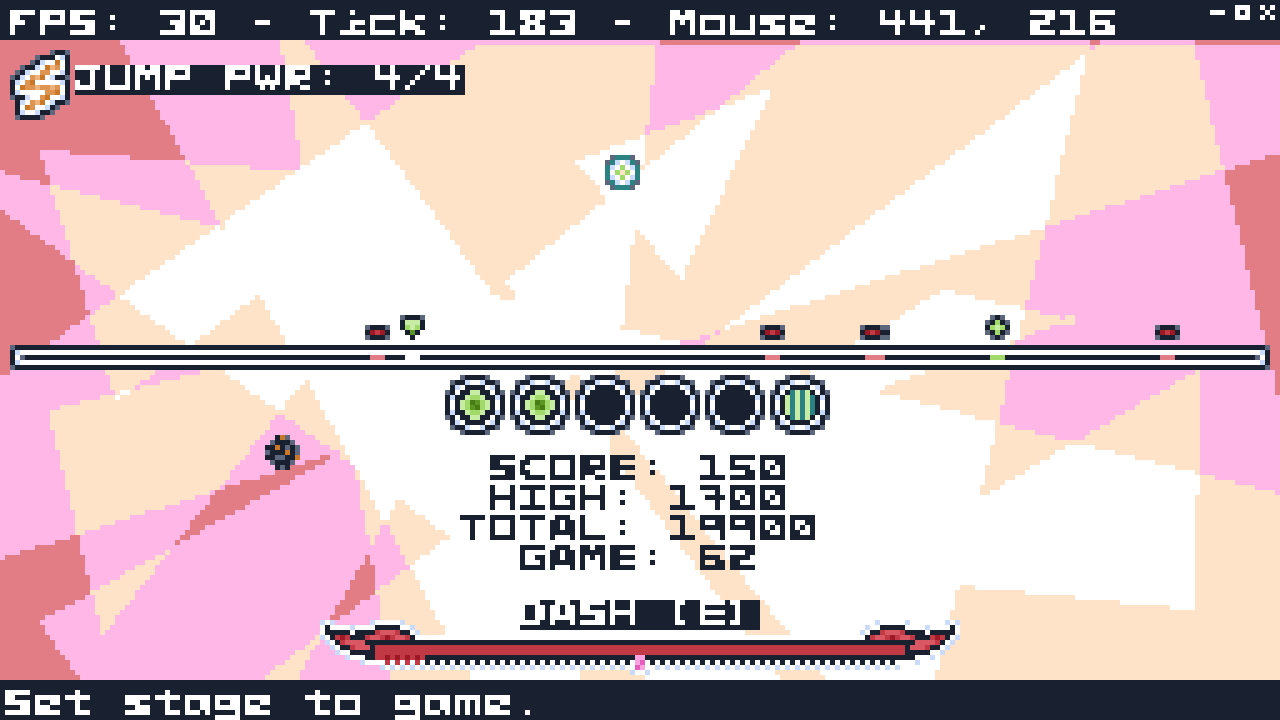
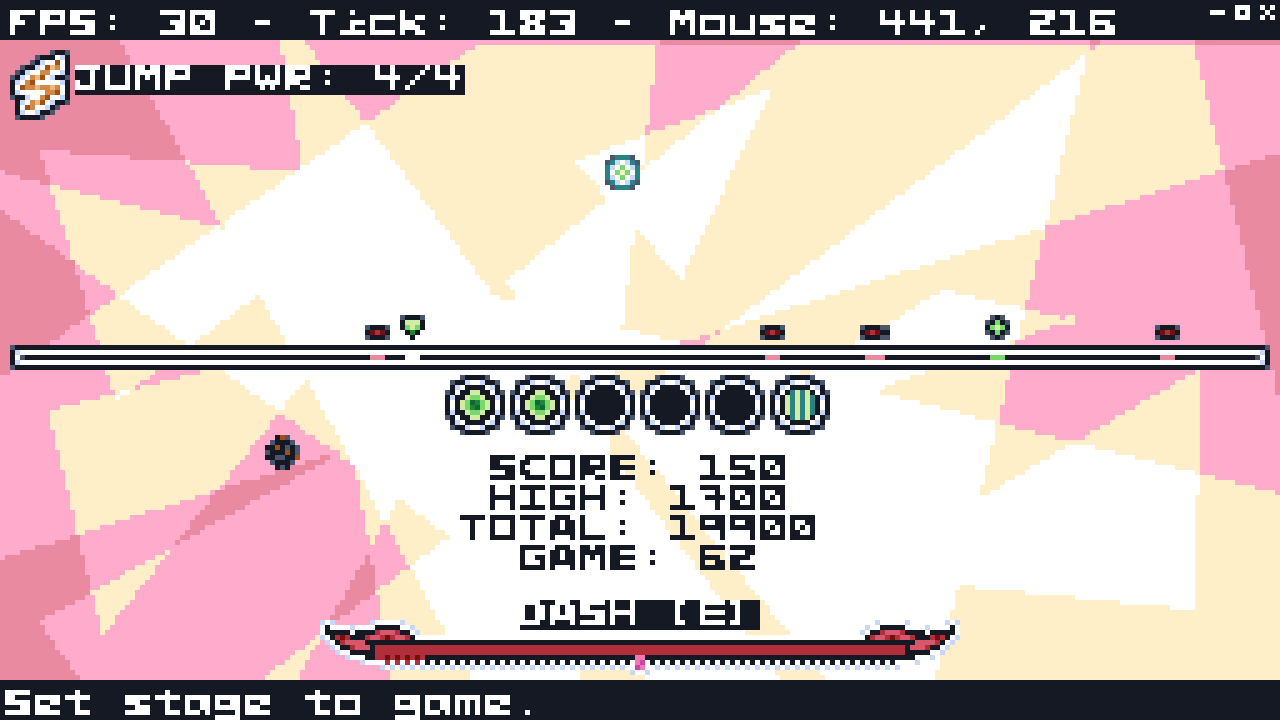
Update website for v1.1

diff --git a/how-to-play.html b/how-to-play.html
@@ -23,13 +23,14 @@
 	  </p>
 	  <div id="new">
 		<p><strong>NEWEST NEW THING:</strong>
-		  This thing is now unnecessary; Lifeline.PYR now has an updates page!
-		  <a href="https://jasperredis.net/updates.html#lifelinepyr">See it here!</a></p>
+		  <a href="https://jasperredis.net/updates.html/lifelinepyr-2026-08-22.html">
+			(2026-08-22) v1.1 Released!
+		</a></p>
 	  </div>
 	</header>
 	
 	<main>
-	  <button onclick="toggleFont()" class="look-btn" id="font-btn">Change font (for easier reading)</button>
+	  <button onclick="toggleFont()" class="look-btn" id="font-btn">Classic font</button>
 	  <div class="dropdown">
 		<button class="look-btn">Change theme</button>
 		<div class="dropdown-content">
@@ -47,13 +48,6 @@
 		  <button onclick="setTheme('original')">Original</button>
 		</div>
 	  </div>
-
-	  <p>
-		Note that this is not word-for-word the exact in-game how to play screen,
-		but it is an arguably better how to play screen.<br>
-		This will soon be the new how to play screen, as v1.1 replaces the how to play screen
-		with a link to this website.
-	  </p>
 
 	  <h1>Table of Contents</h1>
 	  <ul>
@@ -89,7 +83,8 @@
 		This is your life. It starts at, and has a maximum of, 5. Each green orb represents a health point.<br>
 		In gameplay, you may, and should, notice that you are constantly losing these orbs.<br>
 		On the far right of your health bar is the time orb;
-		it shows how long you have until your next health point decreases. This interval is <i>2 seconds</i>.<br><br>
+		it shows how long you have until your next health point decreases. This interval is <i>2 seconds</i>
+		(1 second in Intense difficulty).<br><br>
 		<b>Note:</b> You can pause by pressing <code>[ESCAPE]</code>.
 	  </p>
 	  <img src="assets/htp-enemy.png">
@@ -156,6 +151,10 @@
 		<li><b>max_life</b> restores your health to the maximum of <i>5</i>.</li>
 		<li><b>max_jump</b> instantly charges your jump charge to maximum capacity (4/4).</li>
 		<li><b>clear_enemies</b> gets rid of all <i>current</i> enemies (it does not stop more from spawning).</li>
+		<li><b>Scorers</b> give you points when you touch them. Except for -50_pts, which takes away points
+		  when you touch it, and please do so at least once because I worked really hard on the sound effect >.<<br>
+		  Note: Scorers only exist in v1.1.
+		</li>
 	  </ul>
 	  <img src="assets/htp-laser-warn.png">
 	  <p>

diff --git a/styles.css b/styles.css
@@ -4,45 +4,45 @@
 }
 
 :root {
-	font-family: PYR5x5;
-	--font-btn-font: sans-serif;
-	--dark: #192130;
-	--header-text: #192130;
-	--grey: #5c677d;
+	font-family: sans-serif;
+	--font-btn-font: PYR5x5;
+	--dark: #141923;
+	--header-text: #141923;
+	--grey: #4a566e;
 	--light: #ffffff;
-	--red-1: #9f1825;
-	--red-2: #d95763;
-	--green-1: #487d15;
-	--green-2: #c7eca4;
+	--red-1: #750f0f;
+	--red-2: #d9576c;
+	--green-1: #0f673d;
+	--green-2: #d3eca4;
 	--bg-img: url("./assets/background.png");
 }
-:root.easy-font { font-family: sans-serif; --font-btn-font: PYR5x5; }
+:root.cool-font { font-family: PYR5x5; --font-btn-font: sans-serif; }
 :root.light {
-	--dark: #ffffff; --light: #192130;
-	--red-2: #9f1825; --red-1: #d95763;
+	--dark: #ffffff; --light: #141923;
+	--red-2: #750f0f; --red-1: #d9576c;
 }
 :root.sand {
-	--dark: #dd9551; --light: #ffe3c9;
-	--red-2: #9f1825; --red-1: #d95763;
+	--dark: #d18947; --light: #ffefc9;
+	--red-2: #750f0f; --red-1: #d9576c;
 	--bg-img: url("./assets/background-sand.png");
 }
 :root.ocean {
-	--dark: #2a8282; --light: #ffe3c9;
-	--red-2: #9f1825; --red-1: #d95763;
+	--dark: #2b8282; --light: #ffefc9;
+	--red-2: #750f0f; --red-1: #d9576c;
 	--bg-img: url("./assets/background-thunder.png");
 }
 :root.watermelon {
-	--dark: #e27d86; --light: #c7eca4;
-	--red-2: #9f1825; --red-1: #d95763;
+	--dark: #e27d86; --light: #d3eca4;
+	--red-2: #750f0f; --red-1: #d9576c;
 	--bg-img: url("./assets/background-alt.png");
 }
 :root.demo {
-	--dark: #9f1825; --light: #ffffff;
+	--dark: #750f0f; --light: #ffffff;
 	--bg-img: url("./assets/background-red.png");
 }
 :root.original {
-	--dark: #ca7728; --light: #192130;
-	--red-2: #9f1825; --red-1: #d95763;
+	--dark: #ca7728; --light: #141923;
+	--red-2: #750f0f; --red-1: #d9576c;
 	--bg-img: url("./assets/background-jrises.png");
 }
 

diff --git a/constants-override.html b/constants-override.html
@@ -23,13 +23,14 @@
 	  </p>
 	  <div id="new">
 		<p><strong>NEWEST NEW THING:</strong>
-		  This thing is now unnecessary; Lifeline.PYR now has an updates page!
-		  <a href="https://jasperredis.net/updates.html#lifelinepyr">See it here!</a></p>
+		  <a href="https://jasperredis.net/updates.html/lifelinepyr-2026-08-22.html">
+			(2026-08-22) v1.1 Released!
+		</a></p>
 	  </div>
 	</header>
 	
 	<main>
-	  <button onclick="toggleFont()" class="look-btn" id="font-btn">Change font (for easier reading)</button>
+	  <button onclick="toggleFont()" class="look-btn" id="font-btn">Classic font</button>
 	  <div class="dropdown">
 		<button class="look-btn">Change theme</button>
 		<div class="dropdown-content">
@@ -50,8 +51,7 @@
 
 	  <h1>Constants Override</h1>
 	  <p>
-		Note: This only applies to Lifeline.PYR v1.1. Said version is still in development
-		and does not have a release besides manually setting it up from the Codeberg repository.<br><br>
+		Note: This only applies to Lifeline.PYR v1.1. It does not exist in v1.0.1.<br><br>
 
 		Constants override is a feature that allows you to change gameplay constants, which
 		are the numbers that determine things like chances, speeds, etc..<br>

diff --git a/index.html b/index.html
@@ -22,13 +22,14 @@
 	  </p>
 	  <div id="new">
 		<p><strong>NEWEST NEW THING:</strong>
-		  This thing is now unnecessary; Lifeline.PYR now has an updates page!
-		  <a href="https://jasperredis.net/updates.html#lifelinepyr">See it here!</a></p>
+		  <a href="https://jasperredis.net/updates.html/lifelinepyr-2026-08-22.html">
+			(2026-08-22) v1.1 Released!
+		</a></p>
 	  </div>
 	</header>
 
 	<main>
-	  <button onclick="toggleFont()" class="look-btn" id="font-btn">Change font (for easier reading)</button>
+	  <button onclick="toggleFont()" class="look-btn" id="font-btn">Classic font</button>
 	  <div class="dropdown">
 		<button class="look-btn">Change theme</button>
 		<div class="dropdown-content">

diff --git a/look.js b/look.js
@@ -1,4 +1,4 @@
-function toggleFont() { document.documentElement.classList.toggle("easy-font") }
+function toggleFont() { document.documentElement.classList.toggle("cool-font") }
 const THEMES = ['light', 'sand', 'ocean', 'watermelon', 'dark', 'demo', 'original'];
 function setTheme(theme) {
 	document.documentElement.classList.remove(...THEMES);
